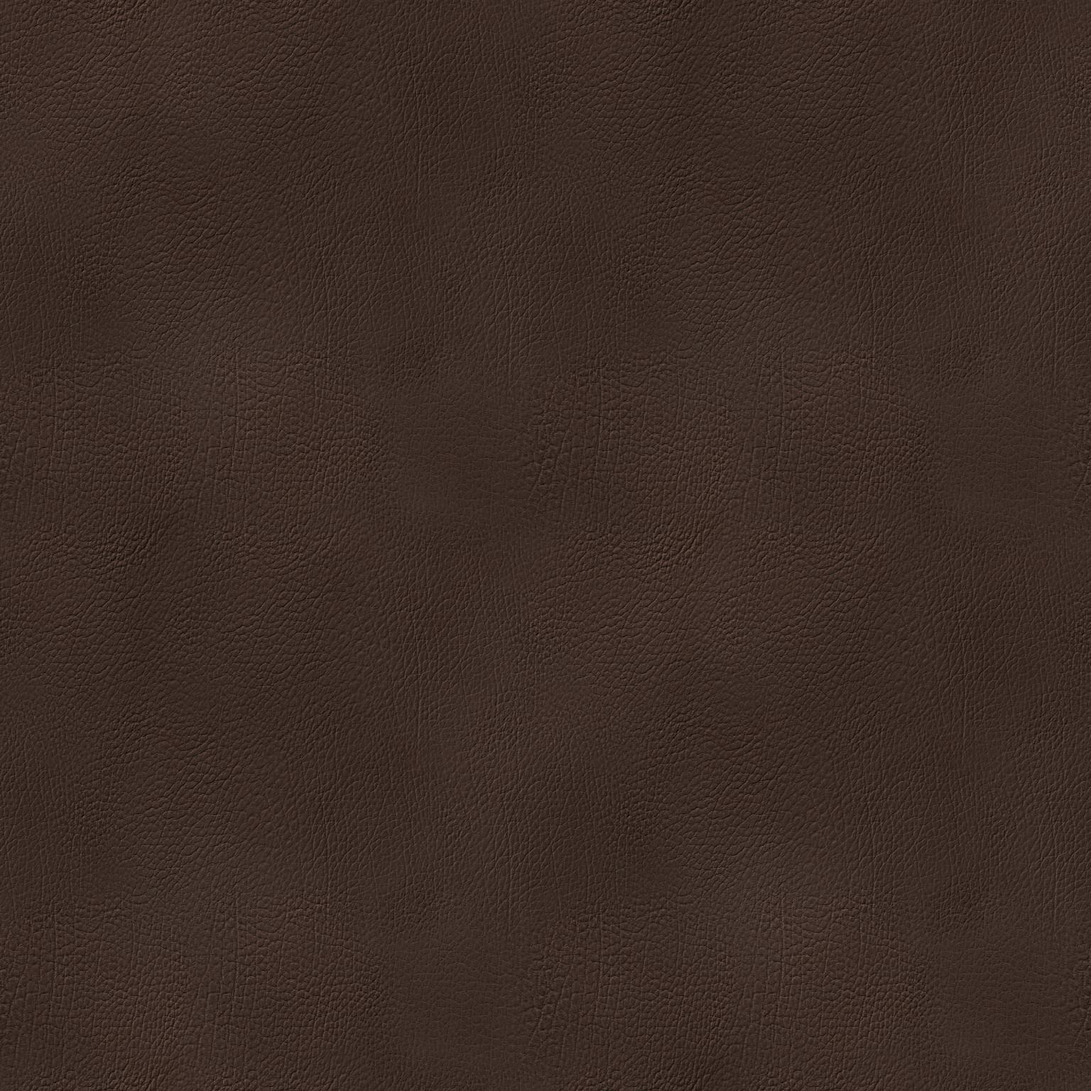
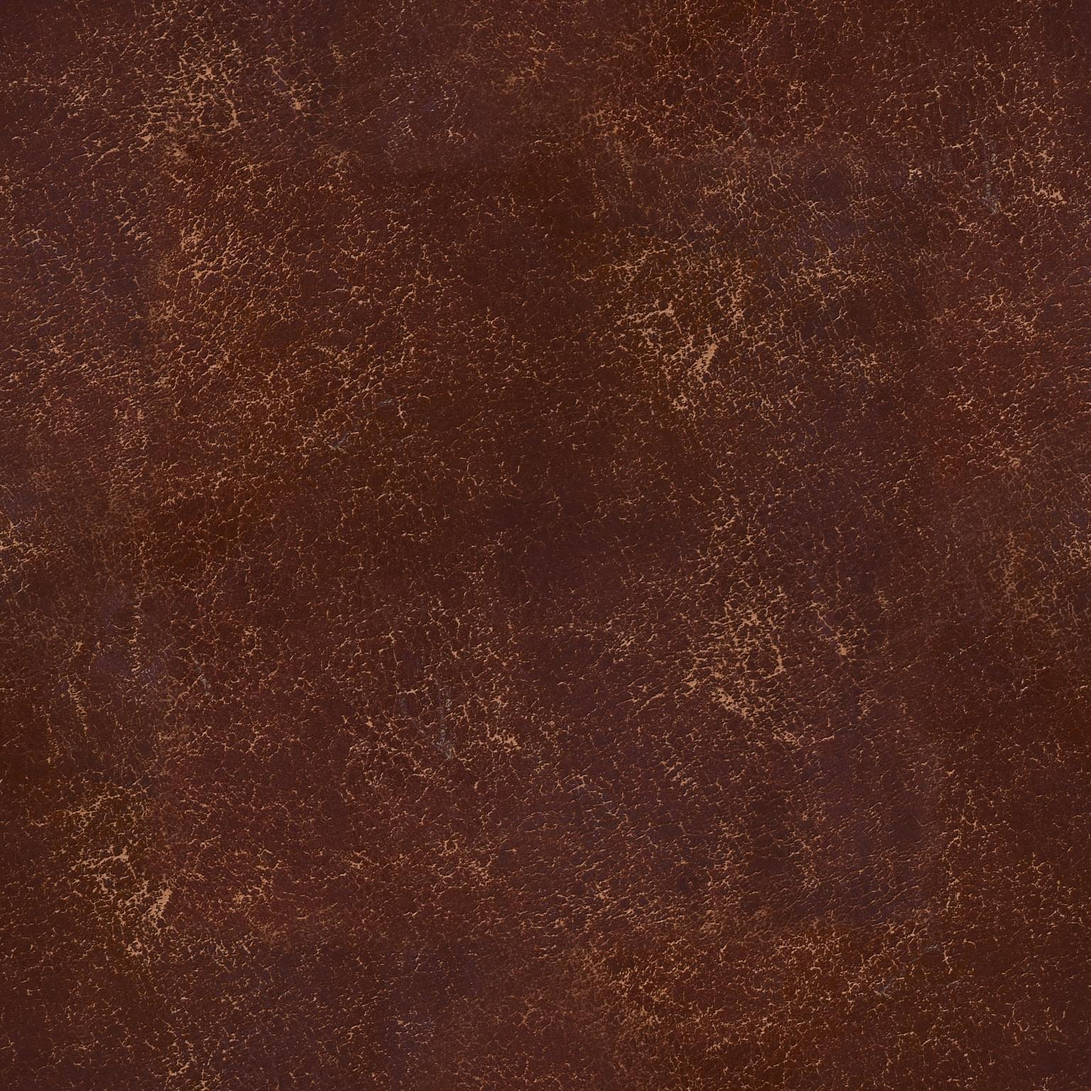
added Tatami background and tweaked Carpet/Leather backgrounds

diff --git a/src/php/FreeBeeGeeAPI.php b/src/php/FreeBeeGeeAPI.php
@@ -567,12 +567,12 @@ class FreeBeeGeeAPI
     {
         return [
             $this->getBackground('Cardboard', 'img/desktop-cardboard.jpg', '#B2997D', '#7F6D59'),
-            $this->getBackground('Carpet', 'img/desktop-carpet.jpg', '#375F68', '#547C86'),
+            $this->getBackground('Carpet', 'img/desktop-carpet.jpg', '#A99C82', '#766852'),
             $this->getBackground('Casino', 'img/desktop-casino.jpg', '#2D5B3D', '#3A7750'),
             $this->getBackground('Concrete', 'img/desktop-concrete.jpg', '#6C6964', '#494540'),
             $this->getBackground('Dark', 'img/desktop-dark.jpg', '#212121', '#444444'),
             $this->getBackground('Ice', 'img/desktop-ice.jpg', '#7B909D', '#BAC1C7'),
-            $this->getBackground('Leather', 'img/desktop-leather.jpg', '#3C2D26', '#6A4B40'),
+            $this->getBackground('Leather', 'img/desktop-leather.jpg', '#4F2A23', '#875D54'),
             $this->getBackground('Marble', 'img/desktop-marble.jpg', '#B6AB99', '#80725E'),
             $this->getBackground('Metal', 'img/desktop-metal.jpg', '#565859', '#3E3E3E'),
             $this->getBackground('Paper', 'img/desktop-paper.jpg', '#CBCBCB', '#989898'),
@@ -581,6 +581,7 @@ class FreeBeeGeeAPI
             $this->getBackground('Sand', 'img/desktop-sand.jpg', '#D7D2BF', '#A19E8F'),
             $this->getBackground('Snow', 'img/desktop-snow.jpg', '#FAFAFA', '#C9C9C9'),
             $this->getBackground('Space', 'img/desktop-space.jpg', '#101010', '#404040'),
+            $this->getBackground('Tatami', 'img/desktop-tatami.jpg', '#D2C49E', '#786C4A'),
             $this->getBackground('Wood', 'img/desktop-wood.jpg', '#524A43', '#3E3935'),
         ];
     }

diff --git a/CHANGELOG.md b/CHANGELOG.md
@@ -9,6 +9,7 @@ Download current and previous releases from [https://github.com/ludus-leonis/Fre
 * added random rotation for pieces via Alt+r
 * added zoom-to-cursor for Ctrl+mousewheel
 * added (slight) random rotation to dice when rolled
+* added Tatami background and tweaked Carpet/Leather backgrounds
 
 ### Other changes
 
